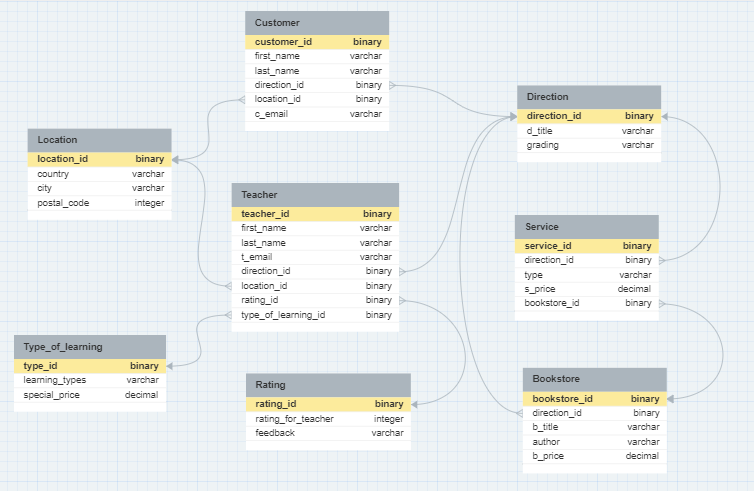
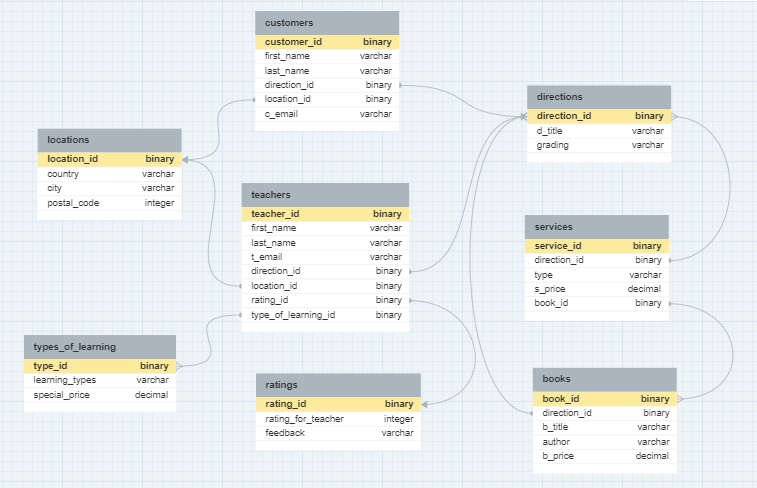
D_24.12.23

diff --git a/src/main/java/com/bogoliubova/training_service/entity/Service.java b/src/main/java/com/bogoliubova/training_service/entity/Service.java
@@ -1,7 +1,7 @@
 package com.bogoliubova.training_service.entity;
 
+import com.bogoliubova.training_service.entity.enums.AllServices;
 import jakarta.persistence.*;
-//import jakarta.persistence.Entity;
 import jakarta.persistence.GeneratedValue;
 import jakarta.persistence.GenerationType;
 import jakarta.persistence.Table;
@@ -9,8 +9,8 @@ import lombok.AllArgsConstructor;
 import lombok.Getter;
 import lombok.NoArgsConstructor;
 import lombok.Setter;
-//import org.springframework.data.annotation.Id;
 
+import java.util.List;
 import java.util.Objects;
 import java.util.UUID;
 
@@ -19,7 +19,7 @@ import java.util.UUID;
 @Getter
 @Setter
 @Entity
-@Table(name = "service")
+@Table(name = "services")
 
 public class Service {
 
@@ -28,24 +28,27 @@ public class Service {
     @Column(name = "service_id")
     private UUID serviceId;
 
+    @OneToMany
     @JoinColumn(name = "direction_id", referencedColumnName = "directionId")
-    private Direction direction;
+    private List<Direction> direction;
 
     @Column(name = "type")
-    private String type;
+    @Enumerated(EnumType.STRING)
+    private AllServices type;
 
     @Column(name = "s_price")
     private double servicePrice;
 
-    @JoinColumn(name = "bookstore_id", referencedColumnName = "bookstoreId")
-    private Bookstore bookstore;
+    @OneToMany
+    @JoinColumn(name = "book_id", referencedColumnName = "book(bookId)")//???
+    private List<Book> books;
 
     @Override
     public boolean equals(Object o) {
         if (this == o) return true;
         if (o == null || getClass() != o.getClass()) return false;
         Service service = (Service) o;
-        return servicePrice == service.servicePrice && Objects.equals(serviceId, service.serviceId) && Objects.equals(type, service.type);
+        return Double.compare(servicePrice, service.servicePrice) == 0 && Objects.equals(serviceId, service.serviceId) && type == service.type;
     }
 
     @Override
@@ -56,11 +59,11 @@ public class Service {
     @Override
     public String toString() {
         return "Service{" +
-                "id=" + serviceId +
-                ", directionId=" + direction +
-                ", type='" + type + '\'' +
-                ", price=" + servicePrice +
-                ", bookstoreId=" + bookstore +
+                "serviceId=" + serviceId +
+                ", direction=" + direction +
+                ", type=" + type +
+                ", servicePrice=" + servicePrice +
+                ", books=" + books +
                 '}';
     }
 }

diff --git a/src/main/java/com/bogoliubova/training_service/entity/Book.java b/src/main/java/com/bogoliubova/training_service/entity/Book.java
@@ -1,32 +1,29 @@
 package com.bogoliubova.training_service.entity;
 
-import com.bogoliubova.training_service.entity.enums.AllDirections;
 import jakarta.persistence.*;
 import lombok.AllArgsConstructor;
 import lombok.Getter;
 import lombok.NoArgsConstructor;
 import lombok.Setter;
-//import org.springframework.data.annotation.Id;
 
 import java.util.Objects;
 import java.util.UUID;
-
 
 @AllArgsConstructor
 @NoArgsConstructor
 @Getter
 @Setter
 @Entity
-@Table(name = "bookstore")
+@Table(name = "books")
 
-public class Bookstore {
+public class Book {
 
     @Id
     @GeneratedValue(strategy = GenerationType.IDENTITY)
-    @Column(name = "bookstore_id")
-    private UUID bookstoreId;
+    @Column(name = "book_id")
+    private UUID bookId;
 
-    //@Column(name = "direction_id")
+    @OneToOne
     @JoinColumn(name = "direction_id", referencedColumnName = "directionId")
     private Direction direction;
 
@@ -43,19 +40,19 @@ public class Bookstore {
     public boolean equals(Object o) {
         if (this == o) return true;
         if (o == null || getClass() != o.getClass()) return false;
-        Bookstore bookstore = (Bookstore) o;
-        return bookPrice == bookstore.bookPrice && Objects.equals(bookstoreId, bookstore.bookstoreId) && Objects.equals(bookTitle, bookstore.bookTitle) && Objects.equals(author, bookstore.author);
+        Book book = (Book) o;
+        return bookPrice == book.bookPrice && Objects.equals(bookId, book.bookId) && Objects.equals(bookTitle, book.bookTitle) && Objects.equals(author, book.author);
     }
 
     @Override
     public int hashCode() {
-        return Objects.hash(bookstoreId, bookTitle, author, bookPrice);
+        return Objects.hash(bookId, bookTitle, author, bookPrice);
     }
 
     @Override
     public String toString() {
         return "Bookstore{" +
-                "id=" + bookstoreId +
+                "id=" + bookId +
                 ", directionId=" + direction +
                 ", title='" + bookTitle + '\'' +
                 ", author='" + author + '\'' +

diff --git a/src/main/java/com/bogoliubova/training_service/entity/Teacher.java b/src/main/java/com/bogoliubova/training_service/entity/Teacher.java
@@ -5,9 +5,8 @@ import lombok.AllArgsConstructor;
 import lombok.Getter;
 import lombok.NoArgsConstructor;
 import lombok.Setter;
-//import org.springframework.data.annotation.Id;
 
-
+import java.util.List;
 import java.util.Objects;
 import java.util.UUID;
 
@@ -16,7 +15,7 @@ import java.util.UUID;
 @Getter
 @Setter
 @Entity
-@Table(name = "teacher")
+@Table(name = "teachers")
 
 public class Teacher {
 
@@ -34,17 +33,21 @@ public class Teacher {
     @Column(name = "t_email")
     private String teachEmail;
 
+    @OneToMany
     @JoinColumn(name = "direction_id", referencedColumnName = "directionId")
-    private Direction direction;
+    private List<Direction> direction;
 
+    @OneToOne
     @JoinColumn(name = "location_id", referencedColumnName = "locationId")
     private Location location;
 
+    @OneToOne
     @JoinColumn(name = "rating_id", referencedColumnName = "ratingId")
     private Rating ratingId;
 
+    @OneToMany
     @JoinColumn(name = "type_id", referencedColumnName = "typeId")
-    private TypeOfLearning typeOfLearning;
+    private List<TypeOfLearning> typeOfLearning;
 
 
     @Override

diff --git a/src/main/java/com/bogoliubova/training_service/entity/Customer.java b/src/main/java/com/bogoliubova/training_service/entity/Customer.java
@@ -5,9 +5,8 @@ import lombok.AllArgsConstructor;
 import lombok.Getter;
 import lombok.NoArgsConstructor;
 import lombok.Setter;
-//import jakarta.persistence.Entity;
-//import jakarta.persistence.Id;
 
+import java.util.List;
 import java.util.Objects;
 import java.util.UUID;
 
@@ -16,7 +15,7 @@ import java.util.UUID;
 @Getter
 @Setter
 @Entity
-@Table(name = "customer")
+@Table(name = "customers")
 
 public class Customer {
 
@@ -31,9 +30,11 @@ public class Customer {
     @Column(name = "last_name")
     private String lastName;
 
+    @OneToMany
     @JoinColumn(name = "direction_id", referencedColumnName = "directionId")
-    private Direction direction;
+    private List<Direction> direction;
 
+    @OneToOne
     @JoinColumn(name = "location_id", referencedColumnName = "locationId")
     private Location location;
 

diff --git a/src/main/java/com/bogoliubova/training_service/entity/enums/AllServices.java b/src/main/java/com/bogoliubova/training_service/entity/enums/AllServices.java
@@ -1,0 +1,20 @@
+package com.bogoliubova.training_service.entity.enums;
+
+public enum AllServices {
+
+    PREPARATION_FOR_SCHOOL("preparation_for_school"),
+    SCHOOL_PROGRAM("school_program"),
+    PREPARATION_FOR_TECHNICAL_SCHOOL("preparation_for_technical_school"),
+    PREPARATION_FOR_UNIVERSITY("preparation_for_university"),
+    PLAYING_MUSICAL_INSTRUMENTS("playing_musical_instruments"),
+    LEARNING_A_CRAFT("learning_a_craft"),
+    TRAINING_FOR_ADULTS("training_for_adults"),
+    TRAINING_FOR_PENSIONEERS("training_for_persioneers"),
+    BOOKSTORE("bookstore");
+
+    private final String value;
+
+    AllServices(String value) {
+        this.value = value;
+    }
+}

diff --git a/src/main/java/com/bogoliubova/training_service/entity/Direction.java b/src/main/java/com/bogoliubova/training_service/entity/Direction.java
@@ -7,7 +7,6 @@ import lombok.AllArgsConstructor;
 import lombok.Getter;
 import lombok.NoArgsConstructor;
 import lombok.Setter;
-//import org.springframework.data.annotation.Id;
 
 import java.util.Objects;
 import java.util.UUID;
@@ -17,7 +16,7 @@ import java.util.UUID;
 @Getter
 @Setter
 @Entity
-@Table(name = "direction")
+@Table(name = "directions")
 
 public class Direction {
 

diff --git a/src/main/java/com/bogoliubova/training_service/entity/Location.java b/src/main/java/com/bogoliubova/training_service/entity/Location.java
@@ -5,7 +5,6 @@ import lombok.AllArgsConstructor;
 import lombok.Getter;
 import lombok.NoArgsConstructor;
 import lombok.Setter;
-// import org.springframework.data.annotation.Id;
 
 import java.util.Objects;
 import java.util.UUID;
@@ -15,7 +14,7 @@ import java.util.UUID;
 @Getter
 @Setter
 @Entity
-@Table(name = "location")
+@Table(name = "locations")
 
 public class Location {
 

diff --git a/src/main/java/com/bogoliubova/training_service/entity/Rating.java b/src/main/java/com/bogoliubova/training_service/entity/Rating.java
@@ -6,7 +6,6 @@ import lombok.AllArgsConstructor;
 import lombok.Getter;
 import lombok.NoArgsConstructor;
 import lombok.Setter;
-//import org.springframework.data.annotation.Id;
 
 import java.util.Objects;
 import java.util.UUID;
@@ -17,7 +16,7 @@ import java.util.UUID;
 @Getter
 @Setter
 @Entity
-@Table(name = "rating")
+@Table(name = "ratings")
 
 public class Rating {
 

diff --git a/src/main/java/com/bogoliubova/training_service/entity/TypeOfLearning.java b/src/main/java/com/bogoliubova/training_service/entity/TypeOfLearning.java
@@ -15,7 +15,7 @@ import java.util.UUID;
 @Getter
 @Setter
 @Entity
-@Table(name = "type_of_learning")
+@Table(name = "types_of_learning")
 
 public class TypeOfLearning {
 
